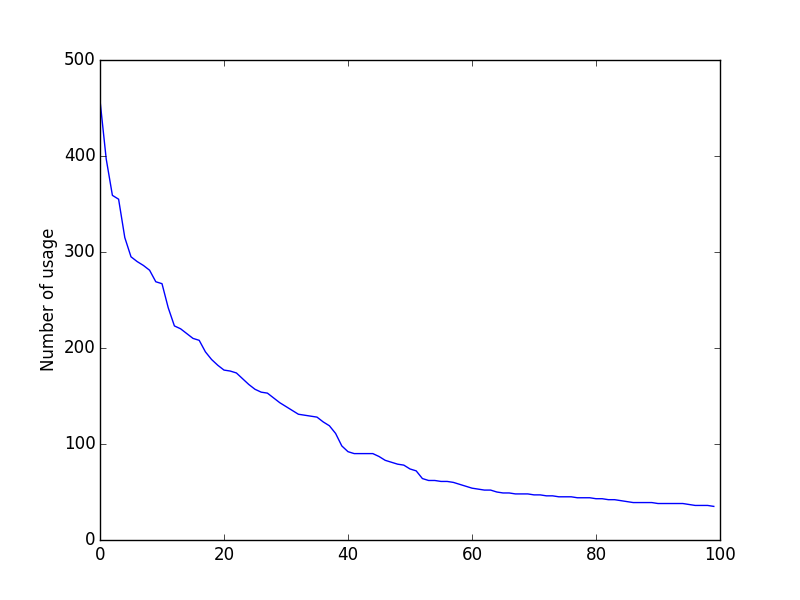
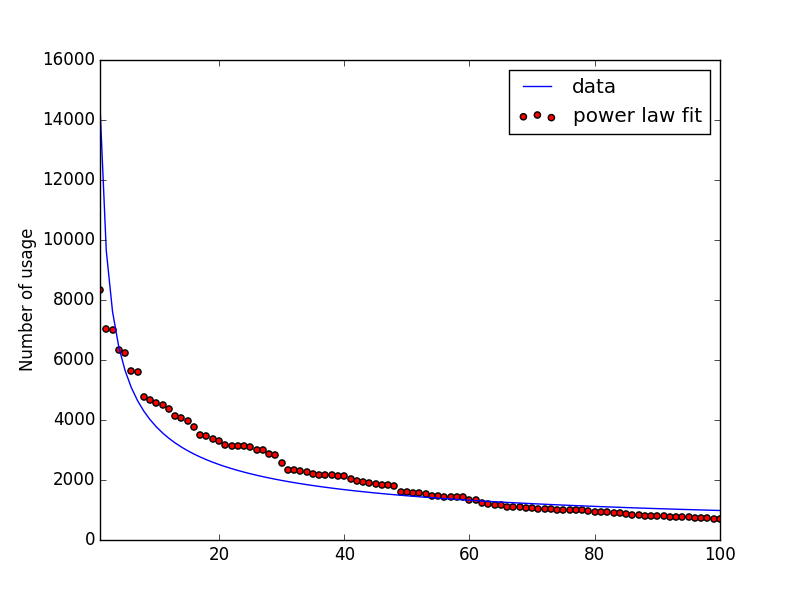
Use ghtorrent

diff --git a/eigenvimrc.py b/eigenvimrc.py
@@ -1,7 +1,6 @@
 import os
 import json
 import requests
-import re
 import collections
 import time
 
@@ -9,15 +8,14 @@ import util
 
 # requires internet connection
 step1 = 0
-step2 = 0  # most time intensive
+step2 = 0  # 2  # most time intensive, 2 for ghtorrent.csv, 1 for github.json
 
 # doesn't require internet connection
-step3 = 1
-step4 = 1
-step5 = 1
+step3 = step4 = step5 = 1
 
-api_url = 'https://api.github.com/search/repositories'
-content_url = 'https://raw.githubusercontent.com/'
+api_url = "https://api.github.com/search/repositories"
+content_url = "https://raw.githubusercontent.com/"
+tic = time.time()
 
 # step 1: collect links to vimrc's
 if step1:
@@ -44,27 +42,40 @@ if step1:
 # step 2: scrape vimrc's
 if step2:
     print "downloading vimrc's"
-    github_data = json.load(open('github.json'))['items']
+    if step2 is 1:
+        data = json.load(open("github.json"))["items"]
+    elif step2 is 2:
+        data = []
+        import csv
+        with open("ghtorrent.csv") as csvfile:
+            reader = csv.reader(csvfile, delimiter=',')
+            next(reader, None)  # skip the header
+            for row in reader:
+                repo_name = row[0].replace("https://api.github.com/repos/", "")
+                data.append({"full_name": repo_name})
     counter = 0
+    offset = 17578
 
-    def save_text(request):
-        with open('github_vimrcs/'+i['full_name'].replace('/', ''), 'wb') as f:
+    def save_text(repo, request):
+        with open('github_vimrcs/'+repo['full_name'].replace('/', ''), 'wb') \
+                as f:
             f.write(request.text.encode('utf8'))
 
     # essentially `mkdir -p github_vimrcs`
     if not os.path.isdir("github_vimrcs"):
         os.makedirs("github_vimrcs")
-    for i in github_data:
-        r = requests.get(content_url+i['full_name']+'/master/.vimrc')
-        if r.status_code == 200:
-            save_text(r)
-        else:
-            r2 = requests.get(content_url+i['full_name']+'/master/vimrc')
-            if r2.status_code == 200:
-                save_text(r2)
+    for i in data:
+        if counter > offset:
+            r = requests.get(content_url+i['full_name']+'/master/.vimrc')
+            if r.status_code == 200:
+                save_text(i, r)
+            else:
+                r2 = requests.get(content_url+i['full_name']+'/master/vimrc')
+                if r2.status_code == 200:
+                    save_text(i, r2)
 
         counter += 1
-        print "%.2f%%" % (counter*1./len(github_data)*100)
+        print "%d %.2f%%" % (counter, counter*1./len(data)*100)
 
 # step 3: process data
 if step3:
@@ -127,6 +138,31 @@ if step5:
         print "this step depends on step #3, please enable step3"
         exit()
     import pylab
-    pylab.plot([i[1] for i in eigenvimrc])
+    y = [i[1] for i in eigenvimrc]
+    x = range(1, len(y)+1)
+    pylab.scatter(x, y, c='r')
     pylab.ylabel("Number of usage")
+
+    # power law fit
+    import scipy.optimize as optimize
+    logx = pylab.log10(x)
+    logy = pylab.log10(y)
+    fitfunc = lambda p, x: p[0] + p[1] * x
+    errfunc = lambda p, x, y: (y - fitfunc(p, x)) ** 2
+    powerlaw = lambda x, amp, index: amp * (x**index)
+    pinit = [1.0, -1.0]
+    out = optimize.leastsq(errfunc, pinit,
+                           args=(logx, logy), full_output=1)
+    pfinal = out[0]
+    covar = out[1]
+    index = pfinal[1]
+    amp = 10.0**pfinal[0]
+    print covar
+
+    pylab.plot(x, powerlaw(x, amp, index))
+    pylab.legend(['data', 'power law fit'])
+    pylab.xlim([1, x[-1]])
+
     pylab.savefig('fig.png')
+
+print 'elapsed: ', time.time() - tic

diff --git a/util.py b/util.py
@@ -8,10 +8,14 @@ def keyword_reformat(line):
            "rnu": "relativenumber"}
     dic_with_params = {"ts": "tabstop",
                        "sts": "softtabstop"}
+    dic_others = {"syn on": "syntax on"}
 
     for i, j in dic.iteritems():
         formatted_line = re.sub("set "+i+'$', "set "+j, formatted_line)
 
     for i, j in dic_with_params.iteritems():
         formatted_line = re.sub("set "+i+'=', "set "+j+"=", formatted_line)
+
+    for i, j in dic_others.iteritems():
+        formatted_line = re.sub(i, j, formatted_line)
     return formatted_line

diff --git a/README.md b/README.md
@@ -1,4 +1,4 @@
-TODO: use ghtorrent
+TODO2: create phylogenetic tree of vimrcs
 
 This script scrapes vimrc's hosted in github and returns the most commonly used vim configurations.
 
@@ -6,7 +6,7 @@ This script scrapes vimrc's hosted in github and returns the most commonly used 
 
 The "voting" process may iterate as follows:
 
-```
+```python
 def vote(default):
     vimrcs = people_curate_their_vimrc()
     sleep(a_month)
@@ -18,116 +18,121 @@ def vote(default):
 ```
 
 #Install
-1. ```cd ~/.vim/bundle```
-2. ```git clone git://github.com/tpope/vim-fugitive.git```
-3. Make sure pathogen is available
-4. Make sure ```execute pathogen#infect()``` is in ```~/.vimrc```
+3. Make sure pathogen is available and ```execute pathogen#infect()``` is in ```~/.vimrc```
+2. ```cd ~/.vim/bundle```
+3. ```git clone git://github.com/tpope/vim-fugitive.git```
 
 #Result
-Most common vim config out of 710 vimrc's
+```syntax on``` > ```set no compatible```
 
-0. ```syntax on``` 64.51%
-1. ```set number``` 55.92%
-2. ```set nocompatible``` 50.56%
-3. ```set expandtab``` 50.00%
-4. ```filetype plugin indent on``` 44.37%
-5. ```set autoindent``` 41.55%
-6. ```set tabstop=4``` 40.85%
-7. ```set shiftwidth=4``` 40.28%
-8. ```set hlsearch``` 39.58%
-9. ```set laststatus=2``` 37.89%
-10. ```set incsearch``` 37.61%
-11. ```set ignorecase``` 34.08%
-12. ```set encoding=utf-8``` 31.41%
-13. ```set background=dark``` 30.99%
-14. ```set ruler``` 30.28%
-15. ```filetype plugin on``` 29.58%
-16. ```set smartcase``` 29.30%
-17. ```set t_Co=256``` 27.61%
-18. ```let mapleader=","``` 26.48%
-19. ```set backspace=indent,eol,start``` 25.63%
-20. ```set wildmenu``` 24.93%
-21. ```set softtabstop=4``` 24.79%
-22. ```set showmatch``` 24.51%
-23. ```filetype off``` 23.66%
-24. ```set smartindent``` 22.82%
-25. ```set nobackup``` 22.11%
-26. ```set smarttab``` 21.69%
-27. ```set showcmd``` 21.55%
-28. ```set rtp+=~/.vim/bundle/vundle/``` 20.85%
-29. ```filetype indent on``` 20.14%
-30. ```set mouse=a``` 19.58%
-31. ```set noswapfile``` 19.01%
-32. ```set cursorline``` 18.45%
-33. ```set shiftwidth=2``` 18.31%
-34. ```set tabstop=2``` 18.17%
-35. ```set hidden``` 18.03%
-36. ```autocmd!``` 17.32%
-37. ```syntax enable``` 16.76%
-38. ```filetype on``` 15.63%
-39. ```set nowrap``` 13.80%
-40. ```set autoread``` 12.96%
-41. ```set guioptions-=T``` 12.68%
-42. ```colorscheme solarized``` 12.68%
-43. ```autocmd BufReadPost *``` 12.68%
-44. ```set list``` 12.68%
-45. ```set softtabstop=2``` 12.25%
-46. ```set noerrorbells``` 11.69%
-47. ```set wrap``` 11.41%
-48. ```set showmode``` 11.13%
-49. ```""``` 10.99%
-50. ```set undofile``` 10.42%
-51. ```set termencoding=utf-8``` 10.14%
-52. ```set novisualbell``` 9.01%
-53. ```set cindent``` 8.73%
-54. ```filetype plugin indent on     ``` 8.73%
-55. ```set nocompatible               ``` 8.59%
-56. ```colorscheme desert``` 8.59%
-57. ```set fileencoding=utf-8``` 8.45%
-58. ```set t_vb=``` 8.17%
-59. ```set title``` 7.89%
-60. ```let g:mapleader=","``` 7.61%
-61. ```set scrolloff=3``` 7.46%
-62. ```set wildmode=list:longest``` 7.32%
-63. ```filetype off                   ``` 7.32%
-64. ```nnoremap ; :``` 7.04%
-65. ```set history=1000``` 6.90%
-66. ```let g:neocomplcache_enable_at_startup=1``` 6.90%
-67. ```nnoremap j gj``` 6.76%
-68. ```set backspace=2``` 6.76%
-69. ```nnoremap k gk``` 6.76%
-70. ```set cmdheight=2``` 6.62%
-71. ```set nowb``` 6.62%
-72. ```set encoding=utf8``` 6.48%
-73. ```set visualbell``` 6.48%
-74. ```set linebreak``` 6.34%
-75. ```let Tlist_Use_Right_Window=1``` 6.34%
-76. ```set lbr``` 6.34%
-77. ```set ttyfast``` 6.20%
-78. ```autocmd FileType css set omnifunc=csscomplete#CompleteCSS``` 6.20%
-79. ```set tm=500``` 6.20%
-80. ```set foldmethod=indent``` 6.06%
-81. ```set backspace=eol,start,indent``` 6.06%
-82. ```colorscheme molokai``` 5.92%
-83. ```set modeline``` 5.92%
-84. ```set shiftround``` 5.77%
-85. ```set clipboard=unnamed``` 5.63%
-86. ```vnoremap < <gv``` 5.49%
-87. ```map <C-l> <C-W>l``` 5.49%
-88. ```map <C-h> <C-W>h``` 5.49%
-89. ```vnoremap > >gv``` 5.49%
-90. ```set relativenumber``` 5.35%
-91. ```map <C-j> <C-W>j``` 5.35%
-92. ```autocmd FileType python setlocal omnifunc=pythoncomplete#Complete``` 5.35%
-93. ```set magic``` 5.35%
-94. ```map <C-k> <C-W>k``` 5.35%
-95. ```set whichwrap+=<,>,h,l``` 5.21%
-96. ```set nowritebackup``` 5.07%
-97. ```set autochdir``` 5.07%
-98. ```let rules += [``` 5.07%
-99. ```set guioptions-=r``` 4.93%
+Most common vim config out of 11804 vimrc's
+
+0. ```syntax on``` 70.70%
+1. ```set number``` 59.72%
+2. ```set nocompatible``` 59.18%
+3. ```filetype plugin indent on``` 53.67%
+4. ```set expandtab``` 52.71%
+5. ```set hlsearch``` 47.80%
+6. ```set laststatus=2``` 47.41%
+7. ```set incsearch``` 40.30%
+8. ```set ignorecase``` 39.67%
+9. ```set backspace=indent,eol,start``` 38.71%
+10. ```let mapleader=","``` 38.09%
+11. ```set background=dark``` 37.10%
+12. ```set ruler``` 34.95%
+13. ```set tabstop=2``` 34.45%
+14. ```set autoindent``` 33.54%
+15. ```set wildmenu``` 31.93%
+16. ```set smartcase``` 29.55%
+17. ```set t_Co=256``` 29.41%
+18. ```set showcmd``` 28.66%
+19. ```set shiftwidth=2``` 28.05%
+20. ```set cursorline``` 26.75%
+21. ```set tabstop=4``` 26.63%
+22. ```set shiftwidth=4``` 26.62%
+23. ```autocmd!``` 26.45%
+24. ```set nobackup``` 26.35%
+25. ```set mouse=a``` 25.49%
+26. ```filetype off``` 25.45%
+27. ```set encoding=utf-8``` 24.22%
+28. ```set list``` 23.86%
+29. ```set showmatch``` 21.64%
+30. ```syntax enable``` 19.83%
+31. ```set hidden``` 19.69%
+32. ```set noswapfile``` 19.42%
+33. ```autocmd BufReadPost *``` 19.18%
+34. ```set title``` 18.51%
+35. ```filetype plugin on``` 18.41%
+36. ```set smartindent``` 18.38%
+37. ```set showmode``` 18.24%
+38. ```filetype on``` 18.08%
+39. ```colorscheme solarized``` 17.97%
+40. ```set smarttab``` 17.24%
+41. ```set relativenumber``` 16.70%
+42. ```set ttyfast``` 16.37%
+43. ```set noerrorbells``` 16.09%
+44. ```set softtabstop=4``` 15.85%
+45. ```set nowrap``` 15.57%
+46. ```set scrolloff=3``` 15.49%
+47. ```set clipboard=unnamed``` 15.33%
+48. ```set softtabstop=2``` 13.61%
+49. ```set nowritebackup``` 13.50%
+50. ```filetype indent on``` 13.39%
+51. ```set undodir=~/.vim/undo``` 13.20%
+52. ```set gdefault``` 12.87%
+53. ```set rtp+=~/.vim/bundle/vundle/``` 12.56%
+54. ```let save_cursor=getpos(".")``` 12.29%
+55. ```set backupdir=~/.vim/backups``` 12.28%
+56. ```set modeline``` 12.02%
+57. ```let old_query=getreg('/')``` 12.00%
+58. ```set directory=~/.vim/swaps``` 12.00%
+59. ```set nostartofline``` 11.36%
+60. ```set autoread``` 11.18%
+61. ```set splitright``` 10.33%
+62. ```set undofile``` 10.08%
+63. ```set shortmess=atI``` 10.01%
+64. ```set splitbelow``` 9.81%
+65. ```set binary``` 9.34%
+66. ```set noeol``` 9.32%
+67. ```set encoding=utf-8 nobomb``` 9.24%
+68. ```set esckeys``` 9.16%
+69. ```set rtp+=~/.vim/bundle/Vundle.vim``` 9.00%
+70. ```nnoremap k gk``` 8.81%
+71. ```nnoremap j gj``` 8.79%
+72. ```function! StripWhitespace()``` 8.66%
+73. ```autocmd BufNewFile,BufRead *.json setfiletype json syntax=javascript``` 8.61%
+74. ```set wrap``` 8.60%
+75. ```set numberwidth=5``` 8.54%
+76. ```set wildmode=list:longest,list:full``` 8.53%
+77. ```noremap <leader>W :w !sudo tee % > /dev/null<CR>``` 8.52%
+78. ```au BufReadPost * set relativenumber``` 8.20%
+79. ```set exrc``` 7.88%
+80. ```let g:airline_powerline_fonts=1``` 7.87%
+81. ```set secure``` 7.84%
+82. ```set visualbell``` 7.65%
+83. ```colorscheme molokai``` 7.63%
+84. ```Plugin 'gmarik/Vundle.vim'``` 7.45%
+85. ```nnoremap Y y$``` 7.05%
+86. ```set modelines=4``` 7.00%
+87. ```set guioptions-=T``` 6.90%
+88. ```set laststatus=2 ``` 6.85%
+89. ```let g:Tlist_Ctags_Cmd="ctags --exclude='*.js'"``` 6.79%
+90. ```set shiftround``` 6.68%
+91. ```set history=1000``` 6.51%
+92. ```set ignorecase ``` 6.51%
+93. ```let g:Powerline_symbols='fancy'``` 6.49%
+94. ```autocmd FileType text setlocal textwidth=78``` 6.45%
+95. ```set lazyredraw``` 6.25%
+96. ```set wildmode=list:longest``` 6.18%
+97. ```nnoremap <C-h> <C-w>h``` 6.10%
+98. ```nnoremap <C-l> <C-w>l``` 6.07%
+99. ```nnoremap <C-k> <C-w>k``` 6.06%
 
 
 #Plot
 Strangely it doesn't follow the power law distribution. Likely because some settings are highly correlated with the others.
 ![plot](fig.png)
+
+#Data
+Repository list is queried from [ghtorrent.org/dblite/](ghtorrent.org/dblite/)
+```select * from projects where language = 'VimL' and name = 'dotfiles'```
